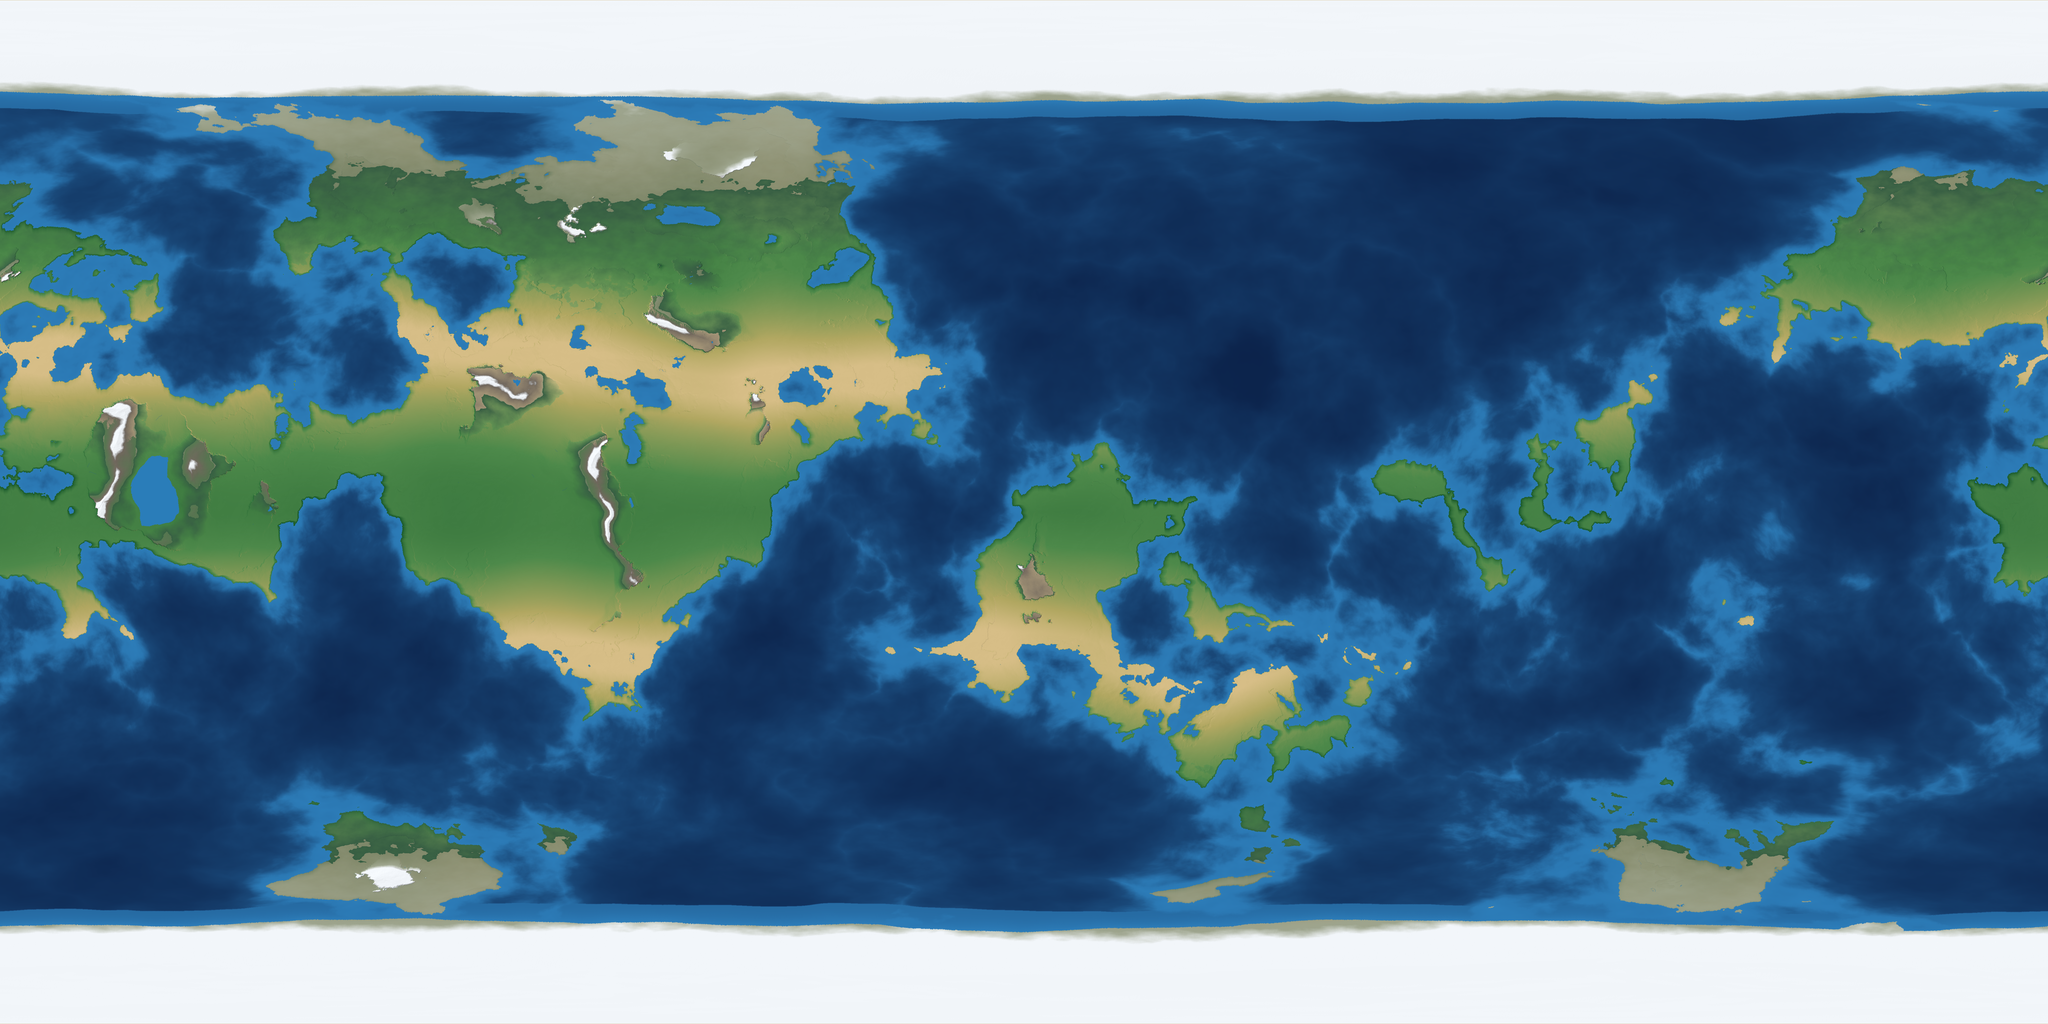
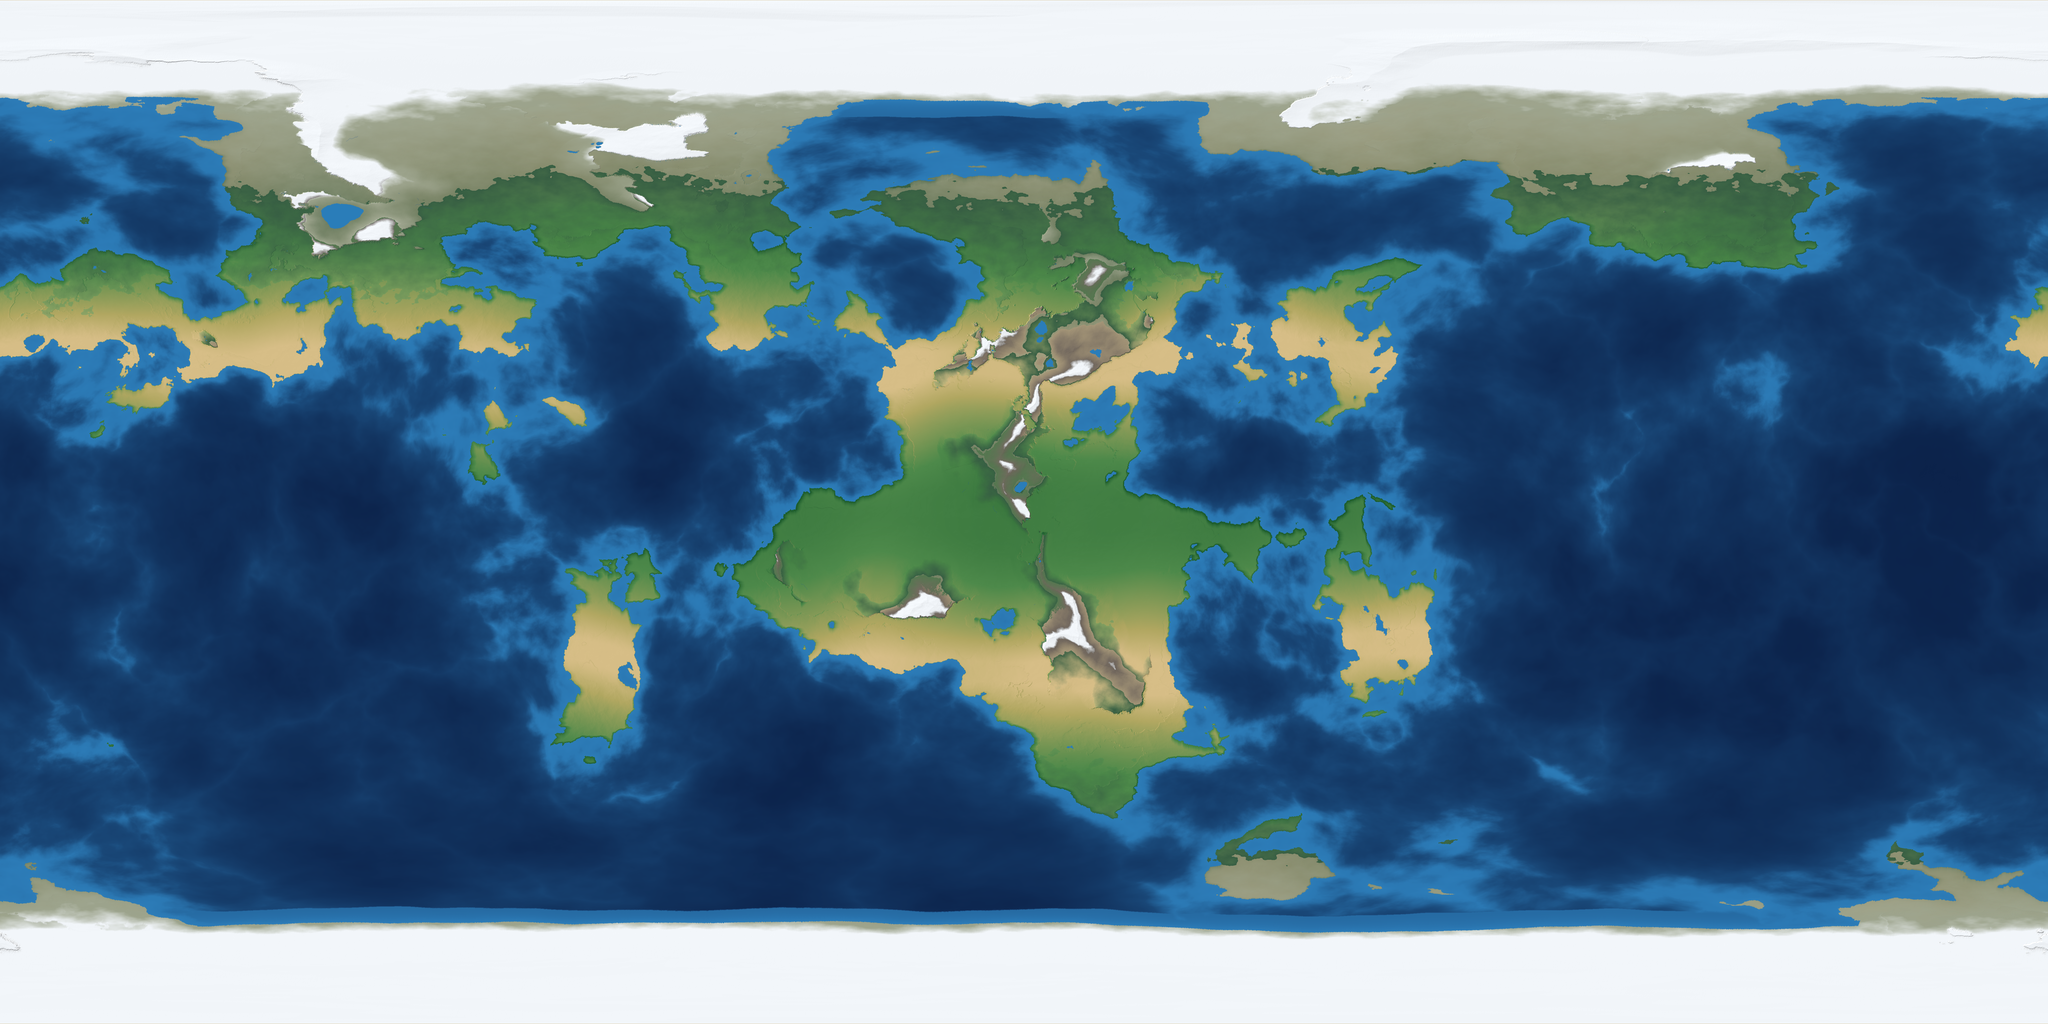
Update README and refresh atlas images with new data

diff --git a/README.md b/README.md
@@ -5,7 +5,7 @@ A procedural world generator and interactive desktop atlas viewer written in Rus
 The engine grows an 8K ($8192 \times 4096$) planet from 3D spherical noise, simulated
 atmospheric circulation and hydrology, and then partitions **both the landmasses and the
 world ocean** into a matching five-tier political hierarchy. Everything below was rendered
-from a single cached world (seed `723687268573658276`), and a given seed always reproduces
+from a single cached world (seed `3286592765982`), and a given seed always reproduces
 the same planet — every stage is order-stable.
 
 ---
@@ -51,15 +51,12 @@ scaled up because it is one connected, far larger domain.
 
 | Metric | Value |
 | :--- | :--- |
-| Surface | **39.1 % land / 60.9 % ocean** |
-| Highest peak | **+7 045 m** |
-| Median land elevation | +450 m (90 % of land below +1 950 m) |
-| Median ocean depth | **−3 650 m** |
-| Deepest trench | **−9 385 m** |
-| Continental shelf (≤ −200 m) | 10.8 % of the ocean |
-| Inhabited landmasses | 958 (every one fully connected by provinces) |
-| Land hierarchy | 12 009 provinces → 1 444 areas → 265 regions → 39 superregions → 7 continents |
-| Ocean hierarchy | 2 001 provinces → 125 areas → 25 regions → 6 superregions → 4 basins |
+| Surface | **39.4 % land / 60.6 % ocean** |
+| Highest peak | **+7 019 m** |
+| Median land elevation | **+750 m (90 % of land below +2 050 m)** |
+| Median ocean depth | **−3 950 m** |
+| Deepest trench | **−10 725 m** |
+| Continental shelf (≤ −200 m) | **9.3 % of the ocean** |
 
 ---
 
@@ -112,20 +109,19 @@ depth) there, and the usual land rules — biomes, wasteland, provinces — appl
 
 ```bash
 # Generate a new world from a seed and save its cache
-cargo run --release -- 1980 --save
+cargo run --release -- 3286592765982 --save
 
 # Launch the interactive atlas viewer from cached data
-cargo run --release -- 1980 --load --viewer
+cargo run --release -- 3286592765982 --load --viewer
 
 # Generate headless with a random seed
 cargo run --release
 
 # Re-render every README plate (all scopes × tiers) from a cached world
-cargo run --release -- 723687268573658276 --load --plates
+cargo run --release -- 3286592765982 --load --plates
 ```
 
 Every headless run prints the world's hypsometric profile in metres and exports
 `world_physical_map.png`, `world_topographic_map.png` (banded elevation survey) and
 `world_political_map.png` (land hierarchy). Passing `--plates` additionally writes the
 `atlas_*.png` scope and tier plates used above, straight from the viewer's own painter.
-
